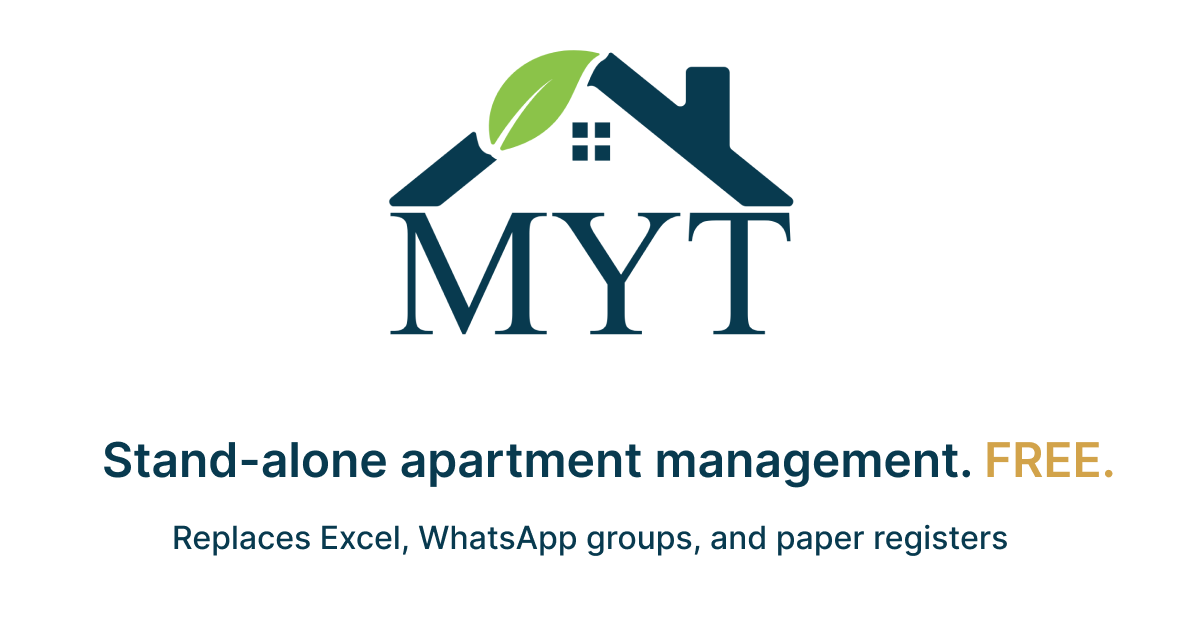
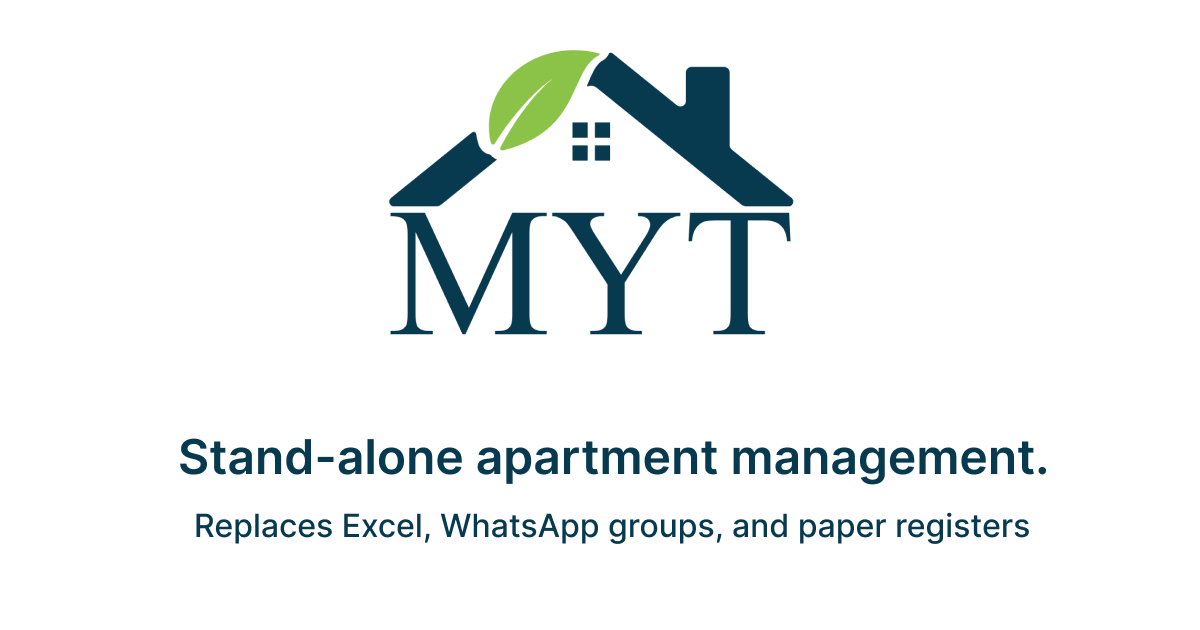
Drop categorical "FREE" framing from OG image + description
- og-image.png: removed FREE accent
- SITE.description: removed leading "Free " word

Preserves brand optionality for future revenue model evolution.

Changed region(s): [[0.0925, 0.6937, 0.925, 0.7841], [0.1233, 0.8143, 0.8633, 0.8746]]

diff --git a/src/lib/constants.ts b/src/lib/constants.ts
@@ -2,7 +2,7 @@ export const SITE = {
   name: "MYT",
   tagline: "Stand Alone Apartment Management Platform",
   description:
-    "Free apartment management app for self-managed stand-alone apartments in India. Replaces Excel sheets, WhatsApp groups, and paper registers.",
+    "apartment management app for self-managed stand-alone apartments in India. Replaces Excel sheets, WhatsApp groups, and paper registers.",
   url: "https://themyt.app",
   playStoreUrl:
     "https://play.google.com/store/apps/details?id=com.themyt.app",